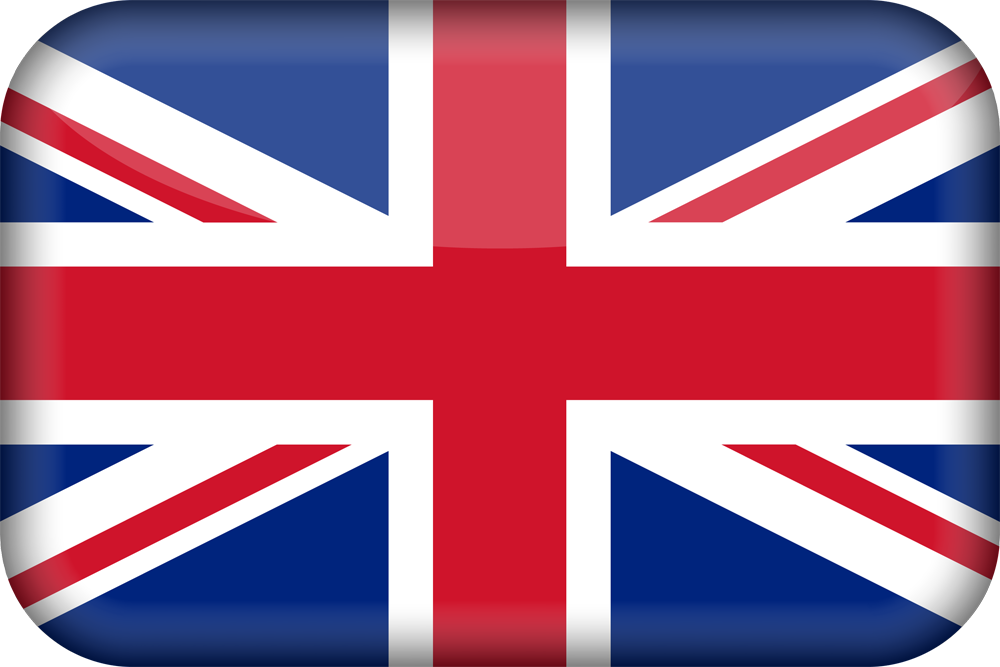
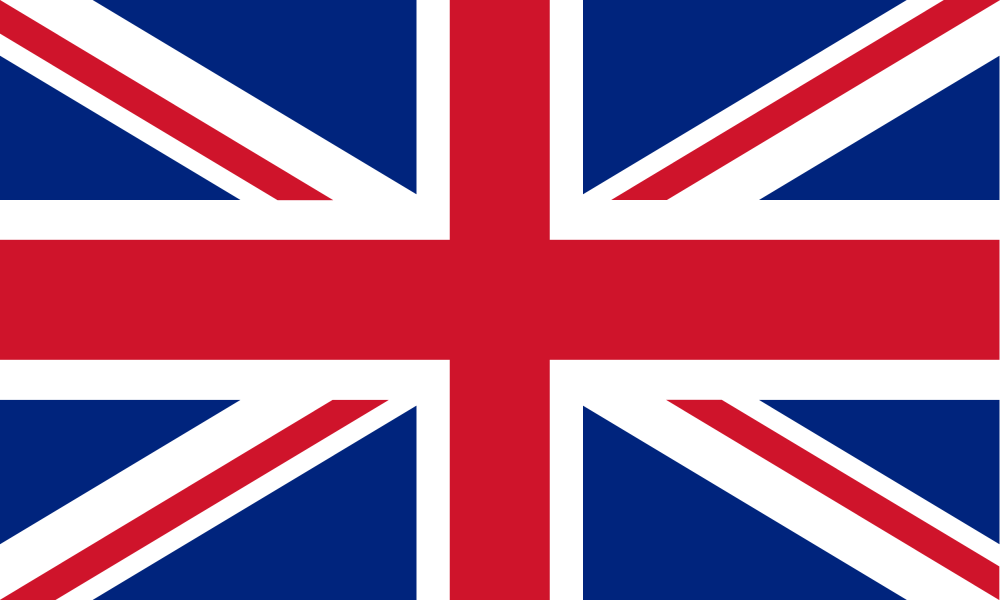
Use of a material themed flag

diff --git a/docs/index.html b/docs/index.html
@@ -22,6 +22,24 @@
           height: 48px;
         }
 
+        #content {
+          margin: 8px;
+          text-align: center;
+          min-width: 300px;
+        }
+
+        #content img {
+          max-width: 800px;
+          display: block;
+          margin-left: auto;
+          margin-right: auto;
+        }
+
+        #content figure {
+          width: 200px;
+          display: inline-block;
+        }
+
         footer {
           background-color: black;
           width: 100%;
@@ -50,22 +68,22 @@
       <div id="headerLable">HuCon</div>
     </header>
 
-    <center style="margin: 8px;">
-      <img style=" max-width: 800px;" src="en/images/logo.svg" alt="Hucon"/>
+    <div id="content">
+      <img src="en/images/logo.svg" alt="Hucon"/>
       <h1>Choose your language</h1>
-      <figure style="width: 200px;">
+      <figure>
         <a href="en/index.html"><img src="en/images/united-kingdom-flag.png" alt="English" style="width: 200px;"/></a>
         <figcaption>
           <center><a href="en/index.html">English</a><center>
         </figcaption>
       </figure>
-      <figure style="width: 200px;">
+      <figure>
         <a href="de/index.html"><img src="en/images/germany-flag.png" alt="Deutsch" style="width: 200px;"/></a>
         <figcaption>
           <center><a href="de/index.html">Deutsch</a><center>
         </figcaption>
       </figure>
-    </center>
+    </div>
 
     <footer>
       <div id="footerLable">Basler AG 2020</div>

diff --git a/docs/css/extra.css b/docs/css/extra.css
@@ -14,3 +14,12 @@
 .large_width {
     width: 100%
 }
+
+.language_flag {
+    padding-left: 0px;
+    padding-right: 0px;
+}
+
+.language_flag img {
+    width: 24px;
+}
